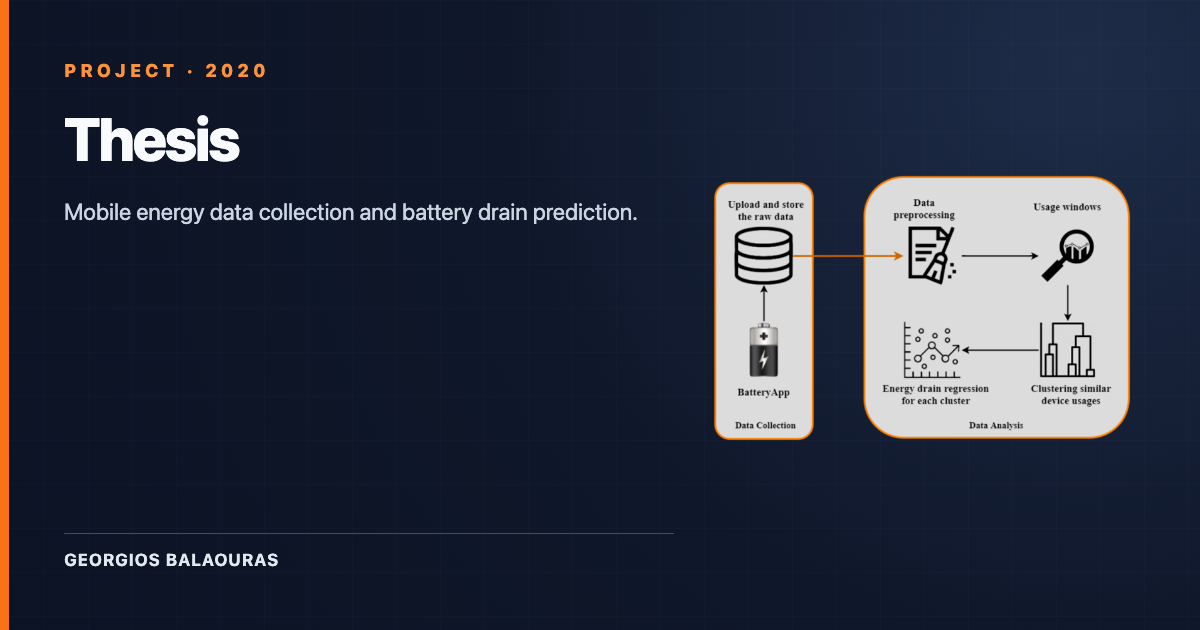
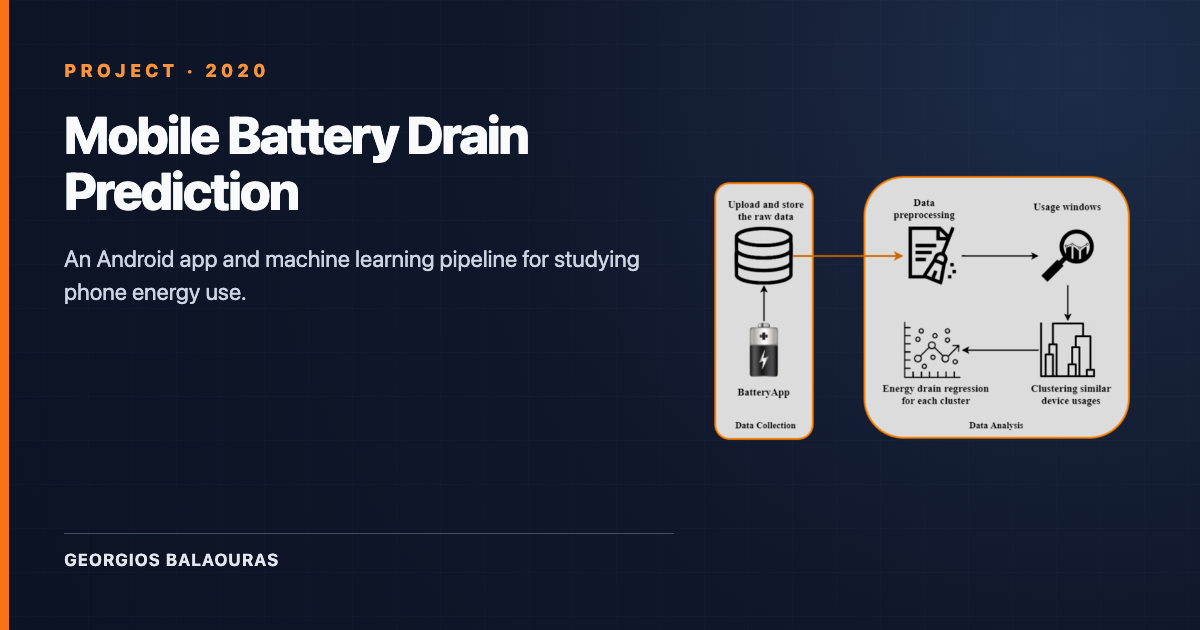
Clarify English and Greek project descriptions

Changed region(s): [[0.0308, 0.181, 0.5242, 0.3619], [0.0308, 0.3921, 0.555, 0.4222], [0.0308, 0.4524, 0.2158, 0.4825]]

diff --git a/src/content/projects-el/thesis.md b/src/content/projects-el/thesis.md
@@ -1,6 +1,6 @@
 ---
-title: "Διπλωματική εργασία"
-summary: "Συλλογή και Ανάλυση Δεδομένων Κατανάλωσης Ενέργειας Κινητών Τηλεφώνων με Χρήση Τεχνικών Μηχανικής Μάθησης"
+title: "Πρόβλεψη Κατανάλωσης Ενέργειας Κινητών"
+summary: "Διπλωματική εργασία: εφαρμογή Android και μοντέλα μηχανικής μάθησης για την ανάλυση και την πρόβλεψη της κατανάλωσης ενέργειας."
 date: 2020-10-01
 featuredImage: "/projects/thesis/featured.png"
 tags:
@@ -21,25 +21,21 @@ url_video: ""
 weight: 1
 ---
 
-Στη σύγχρονη εποχή είναι αδιαμφισβήτητη πραγματικότητα πως τα «έξυπνα» κινητά τηλέφωνα αποτελούν κυρίαρχο στοιχείο της ζωής του ανθρώπου. Με το πάτημα ενός κουμπιού μπορεί κάποιος να ενημερωθεί για τις εξελίξεις παγκοσμίως, να επικοινωνήσει με άτομα από την άλλη άκρη του πλανήτη και να ψυχαγωγηθεί. Ειδικότερα, κύριος πόλος έλξης τους αποτελεί η φορητότητα τους, η οποία κατέστη δυνατή μέσω της αξιοποίησης των μπαταριών. Ωστόσο, αυτές διαθέτουν συγκεκριμένο αριθμό επαναφορτίσεων και συνεπώς, η διάρκεια ζωής μιας συσκευής εξαρτάται άμεσα από τον τύπο χρήσης της και τη στρατηγική επαναφόρτισης της.
+Για τη διπλωματική μου εργασία ανέπτυξα το [BatteryApp](https://play.google.com/store/apps/details?id=gr.auth.ee.issel.batteryapp), μια εφαρμογή Android που καταγράφει περιοδικά τη χρήση της συσκευής και την κατάσταση της μπαταρίας. Στη συνέχεια ανέλυσα τα δεδομένα για να μελετήσω μοτίβα χρήσης και να προβλέψω την κατανάλωση ενέργειας.
 
-Η παρούσα διπλωματική εργασία ασχολείται με την ανάλυση της χρήσης των κινητών τηλεφώνων και την εκτίμηση της κατανάλωσης ενέργειας (energy drain) της μπαταρίας τους. Αρχικά, για τη συλλογή των δεδομένων αναπτύχθηκε η εφαρμογή [BatteryApp](https://play.google.com/store/apps/details?id=gr.auth.ee.issel.batteryapp), η οποία περιοδικά καταγράφει τις λειτουργίες της συσκευής και τις πληροφορίες της μπαταρίας. Στη συνέχεια, ακολουθεί η ομαδοποίηση (clustering) όμοιων τύπων χρήσεων των συσκευών μέσω της ιεραρχικής ομαδοποίησης, η οποία δεν επιβάλει την εξ' αρχής (apriori) επιλογή συγκεκριμένου αριθμού ομάδων και δεν εισάγει περιορισμούς στη συνάρτηση απόστασης που θα επιλεχθεί. Έπειτα, αυτή αξιολογείται ως προς το περιεχόμενό της, έτσι ώστε να επιλεγούν εκείνες οι ομάδες που περιέχουν την περισσότερη πληροφορία. Τέλος, για την εκτίμηση του energy drain, χρησιμοποιήθηκαν ένα απλό γραμμικό μοντέλο, δύο παραλλαγές της γραμμικής παλινδρόμησης, όπου εισάγεται η έννοια της ποινής (Ridge και Lasso Regression), και ένα μη γραμμικό μοντέλο, που ανήκει στην κατηγορία του Ensemble Learning (eXtreme Gradient Boosted trees), με τη διαδικασία μάθησης των παραμέτρων να πραγματοποιείται σε κάθε μια από τις επιλεγμένες ομάδες ξεχωριστά.
+## Διαδικασία ανάλυσης
 
-## **Περιγραφή Εφαρμογής**
+1. **Συλλογή και προετοιμασία:** Το BatteryApp καταγράφει μετρήσεις της συσκευής και της μπαταρίας σε κάθε δείγμα.
+2. **Ομαδοποίηση παρόμοιας χρήσης:** Η ιεραρχική ομαδοποίηση εντοπίζει μοτίβα χωρίς να απαιτεί προκαθορισμένο αριθμό ομάδων. Έπειτα αξιολογείται η πληροφορία που περιέχει κάθε ομάδα.
+3. **Πρόβλεψη κατανάλωσης:** Εκπαίδευσα ξεχωριστά μοντέλα για τις επιλεγμένες ομάδες: γραμμική παλινδρόμηση, Ridge, Lasso και eXtreme Gradient Boosting (XGBoost).
 
-Στο πλαίσιο της διπλωματικής μου εργασίας, ανέπτυξα την Android εφαρμογή BatteryApp, η οποία κατά τη λειτουργία της συλλέγει δεδομένα, ανά τακτά χρονικά διαστήματα, για τη χρήση του κινητού τηλεφώνου και την κατάσταση της μπαταρίας. Τα δεδομένα που συλλέγονται είναι ανώνυμα, καθώς κατά την εγκατάσταση της εφαρμογής θα σας ανατεθεί ένα μοναδικό αναγνωριστικό χρήστη. Οι πληροφορίες που συλλέγονται είναι οι εξής:
+Το παραπάνω διάγραμμα δείχνει τη διαδρομή από τη συλλογή δεδομένων μέχρι την ομαδοποίηση και την πρόβλεψη. Το [PDF της διπλωματικής](/el/media/files/thesis.pdf) περιλαμβάνει την πλήρη μεθοδολογία και τα αποτελέσματα.
 
-- Το μοναδικό αναγνωριστικό χρήστη
-- Επίπεδο, θερμοκρασία, τάση, τεχνολογία, κατάσταση (φόρτιση/εκφόρτιση) και υγεία (καλή/υπερθέρμανση) της μπαταρίας
-- Χρήση του επεξεργαστή
-- Αν τα Wi-Fi, Δεδομένα, Bluetooth, Hotspot, και GPS [^1] είναι ενεργοποιημένα
-- Διαθέσιμη μνήμη RAM
-- Φωτεινότητα της οθόνης
-- Αλληλεπίδραση με τη συσκευή (αναμμένη οθόνη ή όχι)
-- Συχνότητα δειγματοληψίας
-- Μοντέλο της συσκευής και την έκδοση του Android
-- Ποσοστό χωρητικότητας που απομένει στην μπαταρία
-- Χρόνος λήψης του δείγματος
+## Τι καταγράφει το BatteryApp
 
-Για μια πιο λεπτομερή περιγραφή, δείτε [εδώ](https://github.com/mpalaourg/Thesis#raw-data-variables).
-[^1]: *Μόνο αν είναι ενεργοποιημένο, η τοποθεσία σας ΔΕΝ καταγράφεται*
+- **Μπαταρία:** Επίπεδο φόρτισης, υπολειπόμενη χωρητικότητα, θερμοκρασία, τάση, τεχνολογία, κατάσταση φόρτισης και υγεία.
+- **Χρήση συσκευής:** Χρήση επεξεργαστή, διαθέσιμη RAM, φωτεινότητα και κατάσταση οθόνης.
+- **Συνδεσιμότητα:** Αν είναι ενεργά τα Wi-Fi, δεδομένα κινητής, Bluetooth, hotspot και GPS. Η τοποθεσία δεν καταγράφεται.
+- **Στοιχεία δείγματος:** Χρόνος και συχνότητα δειγματοληψίας, μοντέλο συσκευής και έκδοση Android.
+
+Τα δείγματα συνδέονται με μοναδικό αναγνωριστικό χρήστη αντί για όνομα. Το [αποθετήριο](https://github.com/mpalaourg/Thesis#raw-data-variables) περιγράφει αναλυτικά τις μεταβλητές που καταγράφονται.

diff --git a/src/content/projects-el/from-workflows-to-agents.md b/src/content/projects-el/from-workflows-to-agents.md
@@ -1,6 +1,6 @@
 ---
 title: "From Workflows to Agents: Building LLM Systems in Practice"
-summary: "Ένα πρακτικό workshop στο TechSaloniki X για LLM συστήματα με workflows, agents, tools και evaluations."
+summary: "Πρακτικό workshop στο TechSaloniki X για ροές εργασίας LLM, agents, εργαλεία και αξιολόγηση."
 date: 2026-05-01
 featuredImage: "/projects/from-workflows-to-agents/featured.webp"
 tags:
@@ -16,20 +16,20 @@ weight: 0
 
 **TechSaloniki X · Μάιος 2026 · Θεσσαλονίκη, Ελλάδα**
 
-Αυτό το workshop εξερεύνησε πώς μπορούμε να χτίσουμε LLM συστήματα που πηγαίνουν πέρα από ένα απλό prompt.
+Στο workshop χρησιμοποιήσαμε έναν βοηθό διαχείρισης αιτημάτων υποστήριξης για να δείξουμε πώς μια εφαρμογή LLM εξελίσσεται πέρα από ένα απλό prompt.
 
-Το παράδειγμα που χρησιμοποιήθηκε ήταν ένας μικρός support-ticket assistant. Ξεκινήσαμε με ένα απλό LLM call και σταδιακά προσθέσαμε τα κομμάτια που κάνουν αυτά τα συστήματα πιο χρήσιμα στην πράξη: structured outputs, tools, deterministic workflows, bounded agent loops και evaluation checks.
+Ξεκινήσαμε με μια απλή κλήση στο μοντέλο και προσθέσαμε δομημένες απαντήσεις, εργαλεία, μια προκαθορισμένη ροή εργασίας, έναν agent με περιορισμένο αριθμό βημάτων και ελέγχους αξιολόγησης. Κάθε προσθήκη εξυπηρετούσε μια ανάγκη του παραδείγματος.
 
-Το βασικό ερώτημα ήταν απλό:
+## Ροή εργασίας ή agent;
 
-Πρέπει αυτό να είναι ένα fixed workflow ή χρειάζεται πραγματικά έναν agent;
+Μια προκαθορισμένη ροή είναι κατάλληλη όταν γνωρίζουμε τα βήματα: μπορούμε να τα εξετάσουμε, να τα δοκιμάσουμε και να εντοπίσουμε ευκολότερα σφάλματα. Ένας agent είναι χρήσιμος όταν το επόμενο βήμα εξαρτάται από όσα προκύπτουν κατά την εκτέλεση. Η ευελιξία του όμως αυξάνει τη μεταβλητότητα, το κόστος, τον χρόνο απόκρισης και τη δυσκολία αξιολόγησης.
 
-Ένα workflow είναι συνήθως η καλύτερη επιλογή όταν η διαδρομή είναι γνωστή. Δίνει έλεγχο στα βήματα, κάνει το debugging πιο εύκολο και κρατά το σύστημα πιο προβλέψιμο.
+Στόχος ήταν να επιλέξουμε μόνο τον βαθμό αυτονομίας που χρειάζεται για μια αξιόπιστη λύση.
 
-Ένας agent γίνεται χρήσιμος όταν το επόμενο βήμα εξαρτάται από όσα ανακαλύπτει το σύστημα κατά την εκτέλεση. Μπορεί να αποφασίσει ποιο tool θα καλέσει στη συνέχεια, αλλά αυτή η ευελιξία έχει tradeoffs: περισσότερη μεταβλητότητα, μεγαλύτερο κόστος, μεγαλύτερο latency και πιο δύσκολο evaluation.
+## Τι περιλάμβανε το demo
 
-Οπότε, ο στόχος δεν ήταν να παρουσιαστούν οι agents ως το φυσικό endpoint κάθε LLM εφαρμογής. Ήταν να δείξουμε πώς να σκεφτόμαστε αυτό το tradeoff και πώς να επιλέγουμε το ελάχιστο επίπεδο αυτονομίας που χρειάζεται για να λυθεί το πρόβλημα αξιόπιστα.
+- Δομημένες απαντήσεις και κλήσεις εργαλείων.
+- Προκαθορισμένες ροές και agents με περιορισμένο αριθμό βημάτων.
+- Ελέγχους με σύνολο παραδειγμάτων αναφοράς και προαιρετική αξιολόγηση από LLM.
 
-Το demo κάλυψε plain LLM calls, structured outputs, tool usage, deterministic workflows, bounded agent loops, golden dataset evaluation και optional LLM-as-a-Judge evaluation.
-
-Το βασικό takeaway: το evaluation δεν είναι add-on. Είναι το κομμάτι που σου επιτρέπει να αλλάζεις το σύστημα με σιγουριά.
+Η αξιολόγηση συνέδεε όλα τα στάδια του demo: μας επιτρέπει να ελέγχουμε αν κάθε αλλαγή όντως βοηθά.

diff --git a/src/content/projects/thesis.md b/src/content/projects/thesis.md
@@ -1,6 +1,6 @@
 ---
-title: "Thesis"
-summary: "Data Collection and Analysis of Energy Consumption of Mobile Phones using Machine Learning Techniques"
+title: "Mobile Battery Drain Prediction"
+summary: "My thesis: an Android data collection app and machine learning pipeline for analyzing and predicting phone battery drain."
 date: 2020-10-01
 featuredImage: "/projects/thesis/featured.png"
 tags:
@@ -21,25 +21,21 @@ url_video: ""
 weight: 1
 ---
 
-In a modern-day society, there is the consensus that smartphones have a dominant role in everyday life. By just pressing a button, someone can not only get up to speed with the current events on a global scale, but also get in touch with people all over the world and find various forms of entertainment. In particular, one of the features that makes smartphones so attractive is the portability they offer, since they utilize batteries. However, batteries have a certain amount of charges in their disposal, consequently the lifespan of a device is directly correlated to its utilization, as well as its charging strategy.
+For my thesis, I built [BatteryApp](https://play.google.com/store/apps/details?id=gr.auth.ee.issel.batteryapp), an Android app that records device usage and battery readings at regular intervals. I then used the collected data to study usage patterns and predict energy drain.
 
-The current thesis focuses on the analysis of mobile phones' usage and the prediction of the battery's energy drain. To begin with, for data collection the application [BatteryApp](https://play.google.com/store/apps/details?id=gr.auth.ee.issel.batteryapp), which periodically keeps record of the device's usage and the battery information, was developed. The next step is the grouping of similar uses of devices through Hierarchical Clustering, which does not require an a priori selection for a specific cluster number and does not set limitations regarding the chosen distance function. After that, it was assessed based on its content in order to select the clusters with the higher information value. Lastly, the prediction of the energy drain was constructed by employing a simple linear model, two variants of linear regression, where the penalty concept is introduced (Ridge and Lasso Regression), and a non-linear model, which belongs to the Ensemble Learning category (eXtreme Gradient Boosted trees), with the parameters' learning procedure being applied to each selected cluster individually.
+## Analysis pipeline
 
-## **App Description**
+1. **Collect and prepare data:** BatteryApp records device and battery measurements for each sample.
+2. **Group similar usage:** Hierarchical clustering identifies patterns without requiring a fixed number of groups in advance. The groups are then assessed for how much useful information they contain.
+3. **Predict energy drain:** I trained separate models for the selected groups: linear regression, Ridge, Lasso, and eXtreme Gradient Boosting (XGBoost).
 
-As part of my Thesis, I have developed the Android application BatteryApp, which during its operation collects data from the mobile phone's usage and the battery status at regular intervals. The data collected is anonymous, as during the installation of the app you will be assigned a unique user ID. The information collected is:
+The diagram above shows the flow from data collection to clustering and prediction. The [thesis PDF](/el/media/files/thesis.pdf) contains the full methodology and results in Greek.
 
-- The unique ID that distinguishes you from other users
-- The level, temperature, voltage, technology, status (charge/discharge), health (good/overheating) of the battery
-- CPU usage
-- If Wi-Fi, Cellular Data, Bluetooth, Hotspot, GPS [^1] of the mobile are activated
-- The available RAM
-- The screen brightness level
-- If the phone is interactive (screen is turned on or off)
-- Sampling frequency
-- The model of the mobile and the android version
-- The percentage remaining in the battery capacity
-- The Timestamp of each sample
+## What BatteryApp records
 
-For a more detailed description, check [here](https://github.com/mpalaourg/Thesis#raw-data-variables).
-[^1]: *Only if it is enabled, your location will NOT be logged*
+- **Battery:** Level, remaining capacity, temperature, voltage, technology, charging status, and health.
+- **Device activity:** CPU use, available RAM, screen brightness, and whether the screen is on.
+- **Connectivity:** Whether Wi-Fi, mobile data, Bluetooth, hotspot, and GPS are enabled. GPS location is not recorded.
+- **Sample context:** Sampling time, sampling frequency, device model, and Android version.
+
+Samples are associated with a unique user ID rather than a name. The [repository](https://github.com/mpalaourg/Thesis#raw-data-variables) documents the recorded variables in more detail.

diff --git a/src/content/projects-el/image-segmentation.md b/src/content/projects-el/image-segmentation.md
@@ -1,6 +1,6 @@
 ---
 title: "Τμηματοποίηση Εικόνων"
-summary: "Τμηματοποίηση εικόνων με χρήση αλγορίθμων βασισμένων σε γράφους."
+summary: "Σύγκριση φασματικής ομαδοποίησης και normalized cuts για τμηματοποίηση εικόνων με γράφους."
 date: 2019-02-01
 featuredImage: "/projects/image-segmentation/featured.png"
 tags:
@@ -13,10 +13,10 @@ url_video: ""
 weight: 4
 ---
 
-Αναπαράσταση εικόνας ως πλήρως συνδεδεμένο, μη κατευθυντικό γράφο και διαχωρισμός σε τμήματα βάσει κοινών χαρακτηριστικών (χρώμα, ένταση).
+Αναπαρέστησα την εικόνα ως μη κατευθυντικό γράφο και ομαδοποίησα τα εικονοστοιχεία με βάση ομοιότητες όπως το χρώμα και η ένταση. Το έργο συγκρίνει τρεις προσεγγίσεις:
 
-Υλοποιημένες τεχνικές:
+- **Φασματική ομαδοποίηση:** Χρήση ιδιοδιανυσμάτων της Λαπλασιανής μήτρας του γράφου για ομαδοποίηση σε επιλεγμένο αριθμό συστάδων ([μέθοδος](https://www.kaggle.com/vipulgandhi/spectral-clustering-detailed-explanation#-Algorithm:-)).
+- **Normalized cuts:** Διαχωρισμός του γράφου με συνεκτίμηση των συνδέσεων μέσα και ανάμεσα στα τμήματα ([δημοσίευση](https://people.eecs.berkeley.edu/~malik/papers/SM-ncut.pdf#page=4)).
+- **Επαναληπτικά normalized cuts:** Διαδοχικός διαχωρισμός τμημάτων με βάση το κριτήριο normalized cut ([δημοσίευση](https://people.eecs.berkeley.edu/~malik/papers/SM-ncut.pdf#page=6)).
 
-- **Spectral Clustering**: Διαίρεση σε k συστάδες χρησιμοποιώντας ιδιοτιμές του γραφο-Λαπλασιάν ([Αλγόριθμος](https://www.kaggle.com/vipulgandhi/spectral-clustering-detailed-explanation#-Algorithm:-))
-- **Normalized Cuts**: Τμηματοποίηση με τις k μικρότερες ιδιοτιμές για διαχωρισμό γράφου ([Αλγόριθμος](https://people.eecs.berkeley.edu/~malik/papers/SM-ncut.pdf#page=4))
-- **Recursive Normalized Cuts**: Αυτόματος προσδιορισμός αριθμού συστάδων με χρήση της μετρικής Ncut(A, B) ([Αλγόριθμος](https://people.eecs.berkeley.edu/~malik/papers/SM-ncut.pdf#page=6))
+Η εικόνα παραπάνω δείχνει πώς διαφέρουν τα τμήματα που προκύπτουν από την ίδια αρχική εικόνα.

diff --git a/src/content/projects-el/pi-messenger.md b/src/content/projects-el/pi-messenger.md
@@ -1,6 +1,6 @@
 ---
 title: "Pi Messenger"
-summary: "Επικοινωνία Raspberry Pi 0 μέσω Wi-Fi με ελάχιστη κατανάλωση ενέργειας."
+summary: "Κατανεμημένη ανταλλαγή μηνυμάτων μεταξύ Raspberry Pi Zero με περιοδική επικοινωνία για περιορισμό της κατανάλωσης ενέργειας."
 date: 2019-06-01
 featuredImage: "/projects/pi-messenger/featured.png"
 tags:
@@ -16,13 +16,13 @@ url_video: ""
 weight: 6
 ---
 
-Κατανεμημένο σύστημα μηνυμάτων όπου συσκευές Raspberry Pi 0 επικοινωνούν μέσω Wi-Fi. Κάθε συσκευή λειτουργεί ως κόμβος, δημιουργώντας και προωθώντας μηνύματα.
+Κατανεμημένο σύστημα ανταλλαγής μηνυμάτων μεταξύ Raspberry Pi Zero μέσω Wi-Fi. Κάθε συσκευή μπορεί να δημιουργεί μηνύματα και να προωθεί όσα εκκρεμούν σε άλλους κόμβους.
 
-**Βασικά Χαρακτηριστικά:**
+Η υλοποίηση συνδυάζει:
 
-- **Πολυνηματική αρχιτεκτονική TCP**: Server, Client και Creator threads εκτελούνται παράλληλα
-- **Εξοικονόμηση ενέργειας**: Client στέλνει μηνύματα κάθε 1 λεπτό
-- **Συγχρονισμός**: Mutexes αποτρέπουν race conditions
-- **Διαχείριση με διακοπές**: Δημιουργία νέων μηνυμάτων μέσω interrupts
+- **Παράλληλα νήματα TCP:** Ξεχωριστά νήματα για εξυπηρέτηση συνδέσεων, αποστολή και δημιουργία μηνυμάτων.
+- **Περιοδική αποστολή:** Ο client ελέγχει για άλλους κόμβους και στέλνει εκκρεμή μηνύματα ανά λεπτό, αντί να επικοινωνεί συνεχώς.
+- **Προστασία κοινών δεδομένων:** Χρήση mutex για τον συγχρονισμό των νημάτων.
+- **Δημιουργία μέσω διακοπών:** Οι διακοπές ενεργοποιούν τη δημιουργία νέων μηνυμάτων.
 
-Το σύστημα χρησιμοποιεί παθητικό Server που περιμένει συνδέσεις, και clients που ελέγχουν περιοδικά για ενεργές συσκευές.
+Ο server περιμένει εισερχόμενες συνδέσεις, ενώ ο client ελέγχει περιοδικά για ενεργές συσκευές. Το έργο εξετάζει τη σχέση ανάμεσα στην έγκαιρη παράδοση και την κατανάλωση ενέργειας.

diff --git a/src/content/projects/from-workflows-to-agents.md b/src/content/projects/from-workflows-to-agents.md
@@ -1,6 +1,6 @@
 ---
 title: "From Workflows to Agents: Building LLM Systems in Practice"
-summary: "A practical TechSaloniki X workshop on building LLM systems with workflows, agents, tools, and evaluations."
+summary: "A hands-on TechSaloniki X workshop comparing LLM workflows, agents, tools, and evaluation."
 date: 2026-05-01
 featuredImage: "/projects/from-workflows-to-agents/featured.webp"
 tags:
@@ -16,20 +16,20 @@ weight: 0
 
 **TechSaloniki X · May 2026 · Thessaloniki, Greece**
 
-This workshop explored how to build LLM systems that go beyond a single prompt.
+This workshop used a support-ticket assistant to show how an LLM application grows beyond a single prompt.
 
-The running example was a small support-ticket assistant. We started with a plain LLM call and gradually added the pieces that make these systems more useful in practice: structured outputs, tools, deterministic workflows, bounded agent loops, and evaluation checks.
+We started with a plain LLM call, then added structured outputs, tools, a fixed workflow, a bounded agent loop, and evaluation checks. Each step had a reason to exist in the example rather than treating more autonomy as the goal.
 
-The main question was simple:
+## Workflow or agent?
 
-Should this be a fixed workflow, or does it actually need an agent?
+A fixed workflow works well when the path is known: its steps are easier to inspect, test, and debug. An agent is useful when the next step depends on what the system discovers while running. That flexibility also increases variability, cost, latency, and the work needed to evaluate behavior.
 
-A workflow is usually the better choice when the path is known. It gives you control over the steps, makes debugging easier, and keeps the system more predictable.
+The aim was to choose only the autonomy needed to solve the task reliably.
 
-An agent becomes useful when the next step depends on what the system discovers at runtime. It can decide which tool to call next, but that flexibility comes with tradeoffs: more variability, more cost, more latency, and a harder evaluation problem.
+## What the demo covered
 
-So the point was not to present agents as the natural endpoint of every LLM application. It was to show how to reason about the tradeoff and choose the least amount of autonomy needed to solve the problem reliably.
+- Structured outputs and tool calls.
+- Deterministic workflows and bounded agent loops.
+- Golden dataset checks and an optional LLM-as-a-judge step.
 
-The demo covered plain LLM calls, structured outputs, tool usage, deterministic workflows, bounded agent loops, golden dataset evaluation, and optional LLM-as-a-Judge evaluation.
-
-The main takeaway: evaluation is not an add-on. It is the part that lets you change the system with confidence.
+Evaluation was the thread connecting the demo: it provides a way to check whether each change actually helps.

diff --git a/src/content/projects-el/JPEG.md b/src/content/projects-el/JPEG.md
@@ -1,6 +1,6 @@
 ---
 title: "Συμπίεση JPEG"
-summary: "Υλοποίηση προτύπου JPEG (ISO/IEC 109181:1994)."
+summary: "Υλοποίηση κωδικοποιητή και αποκωδικοποιητή JPEG με DCT, κβαντισμό και εντροπική κωδικοποίηση."
 date: 2020-02-01
 featuredImage: "/projects/JPEG/featured.png"
 tags:
@@ -14,10 +14,10 @@ url_video: ""
 weight: 2
 ---
 
-Υλοποίηση του βασικού encoder και decoder JPEG (με απώλεια πληροφορίας), που βασίζεται στον Διακριτό Μετασχηματισμό Συνημιτόνου (ΔΜΣ), σύμφωνα με το πρότυπο ISO-IEC-10918-1-1993. Τα κύρια βήματα είναι:
+Υλοποίησα τη βασική διαδικασία κωδικοποίησης και αποκωδικοποίησης JPEG που περιγράφεται στο [ISO/IEC 10918-1:1994](https://www.iso.org/standard/18902.html). Η επεξεργασία της εικόνας περιλαμβάνει τρία κύρια στάδια:
 
-- **Προ-επεξεργασία**: Μετατροπή RGB ↔ YCbCr και υποδειγματοληψία (4:4:4, 4:2:2, 4:2:0)
-- **Μετασχηματισμός**: Μπλοκ [8x8] ΔΜΣ για μετάβαση από χωρικό σε συχνοτικό πεδίο
-- **Συμπίεση**: Κβαντισμός, κωδικοποίηση μήκους διαδρομής και Huffman
+- **Προετοιμασία χρώματος:** Μετατροπή RGB σε YCbCr και υποδειγματοληψία χρώματος 4:4:4, 4:2:2 ή 4:2:0.
+- **Μετασχηματισμός και κβαντισμός:** Διακριτός μετασχηματισμός συνημιτόνου (DCT) σε μπλοκ 8 × 8 και κβαντισμός των συντελεστών.
+- **Εντροπική κωδικοποίηση:** Κωδικοποίηση μήκους διαδρομής και Huffman. Η αποκωδικοποίηση αντιστρέφει τα βήματα για την ανακατασκευή της εικόνας.
 
-Για περισσότερες λεπτομέρειες δείτε το PDF.
+Το PDF περιγράφει αναλυτικά την υλοποίηση.

diff --git a/src/content/projects-el/bashic-shell.md b/src/content/projects-el/bashic-shell.md
@@ -1,6 +1,6 @@
 ---
 title: "Bash-ic Shell"
-summary: "Δική μου υλοποίηση Unix shell σε C."
+summary: "Unix shell σε C με ενσωματωμένες εντολές, εκτέλεση προγραμμάτων, ανακατεύθυνση και μαζική λειτουργία."
 date: 2018-05-01
 featuredImage: "/projects/bashic-shell/featured.png"
 tags:
@@ -15,11 +15,11 @@ url_video: ""
 weight: 3
 ---
 
-Προσαρμοσμένη υλοποίηση Unix shell σε C με τα εξής χαρακτηριστικά:
+Υλοποίησα ένα Unix shell σε C, δουλεύοντας με την εκτέλεση διεργασιών, την ανακατεύθυνση εισόδου/εξόδου και την επεξεργασία εντολών. Υποστηρίζει:
 
-- **Ενσωματωμένες εντολές**: cd, help, quit
-- **Εξωτερικές εντολές**: Εκτέλεση οποιασδήποτε εντολής με ```@function_name @arguments```
-- **Ανακατεύθυνση Ε/Ε**: Υποστήριξη για > και <
-- **Δύο λειτουργίες**: Διαδραστική (χωρίς ορίσματα) και Μαζική (αρχείο ως όρισμα)
+- **Ενσωματωμένες εντολές:** `cd`, `help` και `quit`.
+- **Εξωτερικά προγράμματα:** Εκτέλεση εντολών με ορίσματα.
+- **Ανακατεύθυνση εισόδου/εξόδου:** Χρήση των τελεστών `>` και `<`.
+- **Δύο τρόπους λειτουργίας:** Διαδραστικά ή μέσω αρχείου εντολών που δίνεται ως όρισμα.
 
-Περισσότερες λεπτομέρειες στο [GitHub](https://github.com/mpalaourg/OperatingSystems_MyBash#operating-systems-final-assignment-auth-2018).
+Ο [κώδικας και οι οδηγίες χρήσης](https://github.com/mpalaourg/OperatingSystems_MyBash#operating-systems-final-assignment-auth-2018) βρίσκονται στο GitHub.

diff --git a/src/content/projects/image-segmentation.md b/src/content/projects/image-segmentation.md
@@ -1,6 +1,6 @@
 ---
 title: "Image Segmentation"
-summary: "Image segmentation using graph-based clustering algorithms."
+summary: "A comparison of spectral clustering and normalized cuts for graph-based image segmentation."
 date: 2019-02-01
 featuredImage: "/projects/image-segmentation/featured.png"
 tags:
@@ -13,10 +13,10 @@ url_video: ""
 weight: 4
 ---
 
-This project represents an image as a fully connected, non-directional graph and partitions it into segments based on common characteristics like color or intensity.
+I represented an image as an undirected graph and grouped pixels into segments using similarities such as color and intensity. The project compares three approaches:
 
-Implemented techniques:
+- **Spectral clustering:** Use graph Laplacian eigenvectors to group pixels into a chosen number of clusters ([method](https://www.kaggle.com/vipulgandhi/spectral-clustering-detailed-explanation#-Algorithm:-)).
+- **Normalized cuts:** Partition the graph while accounting for the strength of connections within and between segments ([paper](https://people.eecs.berkeley.edu/~malik/papers/SM-ncut.pdf#page=4)).
+- **Recursive normalized cuts:** Repeatedly split segments using the normalized-cut criterion ([paper](https://people.eecs.berkeley.edu/~malik/papers/SM-ncut.pdf#page=6)).
 
-- **Spectral Clustering**: Partitions into k clusters using graph Laplacian eigenvalues ([Algorithm](https://www.kaggle.com/vipulgandhi/spectral-clustering-detailed-explanation#-Algorithm:-))
-- **Normalized Cuts**: Segments using the k smallest eigenvalues for graph partitioning ([Algorithm](https://people.eecs.berkeley.edu/~malik/papers/SM-ncut.pdf#page=4))
-- **Recursive Normalized Cuts**: Automatically determines the number of clusters using the Ncut(A, B) metric ([Algorithm](https://people.eecs.berkeley.edu/~malik/papers/SM-ncut.pdf#page=6))
+The figure above shows how the resulting segments differ for the same source image.

diff --git a/src/content/projects/pi-messenger.md b/src/content/projects/pi-messenger.md
@@ -1,6 +1,6 @@
 ---
 title: "Pi Messenger"
-summary: "Raspberry Pi 0 communication over Wi-Fi with minimal energy consumption."
+summary: "A distributed Raspberry Pi Zero messenger designed around periodic communication and low power use."
 date: 2019-06-01
 featuredImage: "/projects/pi-messenger/featured.png"
 tags:
@@ -16,13 +16,13 @@ url_video: ""
 weight: 6
 ---
 
-A distributed messaging system where Raspberry Pi 0 devices communicate over Wi-Fi. Each device acts as a node, generating and forwarding messages to ensure information reaches all devices.
+A distributed messenger for Raspberry Pi Zero devices communicating over Wi-Fi. Each device can generate messages and forward pending ones to other nodes.
 
-**Key Features:**
+The implementation combines:
 
-- **Multi-threaded TCP architecture**: Server, Client, and Creator threads running simultaneously
-- **Energy-efficient**: Client sends messages at 1-minute intervals to conserve power
-- **Synchronization**: Mutexes prevent race conditions when accessing shared resources
-- **Event-driven messaging**: Interrupts trigger new message creation at random intervals
+- **Concurrent TCP threads:** Separate server, client, and message-creator threads.
+- **Periodic delivery:** The client checks for peers and sends pending messages at one-minute intervals to reduce continuous activity.
+- **Shared-state protection:** Mutexes guard data accessed by multiple threads.
+- **Interrupt-driven creation:** Interrupts trigger the generation of new messages.
 
-The system uses passive-mode server threads waiting for connections, and clients that periodically check for active devices and deliver pending messages.
+The server waits for incoming connections while the client periodically discovers active devices. The project explores the tradeoff between timely delivery and energy use.

diff --git a/src/content/projects-el/optimization-algorithms.md b/src/content/projects-el/optimization-algorithms.md
@@ -1,6 +1,6 @@
 ---
 title: "Αλγόριθμοι Βελτιστοποίησης"
-summary: "Υλοποίηση διαφόρων αλγορίθμων βελτιστοποίησης για εύρεση ελαχίστων συναρτήσεων."
+summary: "Υλοποιήσεις μεθόδων τοπικής, περιορισμένης και καθολικής βελτιστοποίησης σε MATLAB."
 date: 2018-02-01
 featuredImage: "/projects/optimization-algorithms/featured.webp"
 tags:
@@ -15,7 +15,7 @@ url_video: ""
 weight: 5
 ---
 
-Υλοποίηση διαφόρων αλγορίθμων βελτιστοποίησης:
+Υλοποίησα μεθόδους βελτιστοποίησης σε MATLAB, από αναζητήσεις μιας μεταβλητής έως μεθόδους για προβλήματα πολλών μεταβλητών και περιορισμών. Οι αλγόριθμοι οργανώνονται ανά τύπο προβλήματος:
 
 **1-Δ Κυρτές Συναρτήσεις:**
 - Μέθοδος Διχοτόμου ([Αλγόριθμος](https://mathworld.wolfram.com/Bisection.html))
@@ -35,3 +35,5 @@ weight: 5
 
 **Καθολική Βελτιστοποίηση:**
 - Γενετικός Αλγόριθμος για άγνωστες συνεχείς συναρτήσεις
+
+Η παραπάνω επιφάνεια δείχνει πώς μια διαδρομή βελτιστοποίησης κινείται πάνω στην αντικειμενική συνάρτηση προς ένα ελάχιστο.

diff --git a/src/content/projects/JPEG.md b/src/content/projects/JPEG.md
@@ -1,6 +1,6 @@
 ---
 title: "JPEG Image Compression"
-summary: "Implementation of JPEG standard (ISO/IEC 109181:1994)."
+summary: "A baseline JPEG encoder and decoder built around DCT, quantization, and entropy coding."
 date: 2020-02-01
 featuredImage: "/projects/JPEG/featured.png"
 tags:
@@ -14,10 +14,10 @@ url_video: ""
 weight: 2
 ---
 
-This project implements the baseline sequential DCT-based (lossy) JPEG encoder and decoder as described by the ISO-IEC-10918-1-1993 standard. The main steps involved are:
+I implemented the baseline sequential JPEG encoding and decoding pipeline described in [ISO/IEC 10918-1:1994](https://www.iso.org/standard/18902.html). The project follows an image through three main stages:
 
-- **Pre-processing**: RGB ↔ YCbCr conversion and subsampling (4:4:4, 4:2:2, 4:2:0)
-- **Transformation**: Block [8x8] DCT to convert spatial domain to frequency domain
-- **Compression**: Quantization, run-length encoding, and Huffman coding
+- **Color preparation:** Convert RGB to YCbCr and apply 4:4:4, 4:2:2, or 4:2:0 chroma sampling.
+- **Transform and quantization:** Apply an 8 × 8 discrete cosine transform (DCT) and quantize the coefficients.
+- **Entropy coding:** Encode the resulting coefficients with run-length and Huffman coding, then reverse the steps to reconstruct the image.
 
-For a more detailed explanation (in Greek), check the PDF.
+The linked PDF explains the implementation in Greek.
